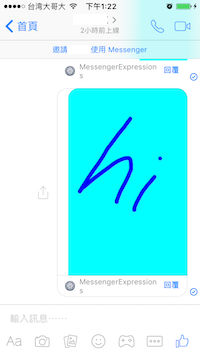
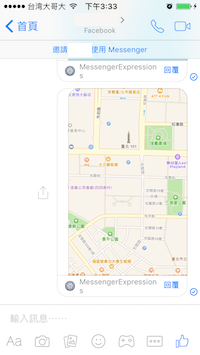
add Reply function

diff --git a/MessengerExpressions/ViewController.swift b/MessengerExpressions/ViewController.swift
@@ -7,97 +7,28 @@
 //
 
 import UIKit
+import MapKit
+
 import FBSDKMessengerShareKit
 
 class ViewController: UIViewController {
-    @IBOutlet weak var textLabel: UILabel!
-    @IBOutlet weak var mainImageView: UIImageView!
-    @IBOutlet weak var tempImageView: UIImageView!
-    
-    let bgColor = UIColor.cyan
+    @IBOutlet weak var mapView: MKMapView!
+    var region: MKCoordinateRegion?
 
     override func viewDidLoad() {
         super.viewDidLoad()
         // Do any additional setup after loading the view, typically from a nib.
-        self.view.backgroundColor = bgColor
+        
         initFB()
+        
+        if let region = region {
+            mapView.region = region
+        }
     }
 
     override func didReceiveMemoryWarning() {
         super.didReceiveMemoryWarning()
         // Dispose of any resources that can be recreated.
-    }
-
-    // MARK: - drawing
-    // Modified from https://www.raywenderlich.com/87899/make-simple-drawing-app-uikit-swift
-    var lastPoint = CGPoint.zero
-    var swiped = false
-    
-    override func touchesBegan(_ touches: Set<UITouch>, with event: UIEvent?) {
-        swiped = false
-        textLabel.text = nil
-        
-        if let touch = touches.first {
-            lastPoint = touch.location(in: self.tempImageView)
-        }
-    }
-    
-    func drawLineFrom(fromPoint: CGPoint, toPoint: CGPoint) {
-        UIGraphicsBeginImageContext(tempImageView.frame.size)
-        if let context = UIGraphicsGetCurrentContext() {
-            // 1
-            tempImageView.image?.draw(in: tempImageView.bounds)
-            
-            // 2
-            context.move(to: fromPoint)
-            context.addLine(to: toPoint)
-            
-            // 3
-            context.setLineCap(.round)
-            context.setLineWidth(10)
-            context.setStrokeColor(UIColor.blue.cgColor)
-            context.setBlendMode(.normal)
-            
-            // 4
-            context.strokePath()
-        }
-        
-        // 5
-        tempImageView.image = UIGraphicsGetImageFromCurrentImageContext()
-        UIGraphicsEndImageContext()
-        
-    }
-    
-    override func touchesMoved(_ touches: Set<UITouch>, with event: UIEvent?) {
-        // 6
-        swiped = true
-        if let touch = touches.first {
-            let currentPoint = touch.location(in: self.tempImageView)
-            drawLineFrom(fromPoint: lastPoint, toPoint: currentPoint)
-            
-            // 7
-            lastPoint = currentPoint
-        }
-    }
-    
-    override func touchesEnded(_ touches: Set<UITouch>, with event: UIEvent?) {
-        if !swiped {
-            // draw a single point
-            drawLineFrom(fromPoint: lastPoint, toPoint: lastPoint)
-        }
-        
-        // Merge tempImageView into mainImageView
-        UIGraphicsBeginImageContext(mainImageView.bounds.size)
-        if let context = UIGraphicsGetCurrentContext() {
-            context.setFillColor(bgColor.cgColor)
-            context.fill(tempImageView.bounds)
-        }
-        mainImageView.image?.draw(in: tempImageView.bounds, blendMode: .normal, alpha: 1.0)
-        tempImageView.image?.draw(in: tempImageView.bounds, blendMode: .normal, alpha: 1.0)
-        mainImageView.image = UIGraphicsGetImageFromCurrentImageContext()
-        UIGraphicsEndImageContext()
-        
-        tempImageView.image = nil
     }
     
     // MARK: - FaceBook
@@ -110,11 +41,21 @@ class ViewController: UIViewController {
     }
     
     func share() {
-        guard let image = mainImageView.image else { return }
-        let appDelegate = UIApplication.shared.delegate as? AppDelegate
-        let shareOptions = FBSDKMessengerShareOptions()
-        shareOptions.contextOverride = appDelegate?.contextFBMessenger
-        FBSDKMessengerSharer.share(image, with: shareOptions)
+        let options = MKMapSnapshotOptions()
+        options.region = self.mapView.region
+        options.scale = UIScreen.main.scale
+        options.size = self.mapView.frame.size
+        
+        let snapshotter = MKMapSnapshotter(options: options)
+        snapshotter.start { (snapshot, error) in
+            guard let snapshot = snapshot else { return }
+            
+            let appDelegate = UIApplication.shared.delegate as? AppDelegate
+            let shareOptions = FBSDKMessengerShareOptions()
+            shareOptions.metadata = options.region.toString()
+            shareOptions.contextOverride = appDelegate?.contextFBMessenger
+            FBSDKMessengerSharer.share(snapshot.image, with: shareOptions)
+        }
     }
 }
 

diff --git a/MessengerExpressions/MKCoordinateRegion+String.swift b/MessengerExpressions/MKCoordinateRegion+String.swift
@@ -1,0 +1,34 @@
+//
+//  MKCoordinateRegion+String.swift
+//  MessengerExpressions
+//
+//  Created by Wayne Yeh on 2017/2/20.
+//  Copyright © 2017年 Wayne Yeh. All rights reserved.
+//
+
+import MapKit
+
+extension MKCoordinateRegion {
+    func toString() -> String {
+        return "{\"center\":{\"latitude\":\(center.latitude), \"longitude\":\(center.longitude)}, \"span\":{\"latitudeDelta\":\(span.latitudeDelta),\"longitudeDelta\":\(span.longitudeDelta)}}"
+    }
+}
+
+extension String {
+    func toCoordinateRegion() -> MKCoordinateRegion? {
+        guard
+            let data = self.data(using: .utf8),
+            let json = try? JSONSerialization.jsonObject(with: data, options: .mutableContainers) as? [String:[String:Double]],
+            let latitude = json?["center"]?["latitude"],
+            let longitude = json?["center"]?["longitude"],
+            let latitudeDelta = json?["span"]?["latitudeDelta"],
+            let longitudeDelta = json?["span"]?["longitudeDelta"]
+            else { return nil }
+        
+        let center = CLLocationCoordinate2D(latitude: latitude, longitude: longitude)
+        
+        let span = MKCoordinateSpan(latitudeDelta: latitudeDelta, longitudeDelta: longitudeDelta)
+        
+        return MKCoordinateRegion(center: center, span: span)
+    }
+}

diff --git a/MessengerExpressions/ReplyViewController.swift b/MessengerExpressions/ReplyViewController.swift
@@ -1,0 +1,37 @@
+//
+//  ReplyViewController.swift
+//  MessengerExpressions
+//
+//  Created by Wayne Yeh on 2017/2/20.
+//  Copyright © 2017年 Wayne Yeh. All rights reserved.
+//
+
+import UIKit
+
+import FBSDKMessengerShareKit
+
+class ReplyViewController: ViewController {
+
+    override func initFB() {
+        let replyItem = UIBarButtonItem(barButtonSystemItem: .reply, target: self, action: #selector(share))
+        navigationItem.setRightBarButton(replyItem, animated: true)
+        
+        let width = (self.navigationController?.navigationBar.frame.size.height ?? 44) - 8
+        let button = FBSDKMessengerShareButton.circularButton(with: .blue, width: width)
+        button?.addTarget(self, action: #selector(back), for: .touchUpInside)
+        let backItem = UIBarButtonItem(customView: button!)
+        navigationItem.setLeftBarButton(backItem, animated: true)
+    }
+    
+    override func share() {
+        _ = self.navigationController?.popViewController(animated: false)
+        
+        super.share()
+    }
+    
+    func back() {
+        _ = self.navigationController?.popViewController(animated: false)
+        
+        FBSDKMessengerSharer.openMessenger()
+    }
+}

diff --git a/MessengerExpressions/AppDelegate.swift b/MessengerExpressions/AppDelegate.swift
@@ -7,6 +7,8 @@
 //
 
 import UIKit
+import MapKit
+
 import FBSDKMessengerShareKit
 
 @UIApplicationMain
@@ -54,6 +56,17 @@ class AppDelegate: UIResponder, UIApplicationDelegate, FBSDKMessengerURLHandlerD
     
     func messengerURLHandler(_ messengerURLHandler: FBSDKMessengerURLHandler!, didHandleReplyWith context: FBSDKMessengerURLHandlerReplyContext!) {
         contextFBMessenger = context
+        
+        guard let navigationController =  window?.rootViewController as? UINavigationController else { return }
+        
+        let storyboard = UIStoryboard(name: "Main", bundle: nil)
+        let controller = storyboard.instantiateViewController(withIdentifier: "ViewController")
+        object_setClass(controller, ReplyViewController.self)
+        
+        guard let replyController =  controller as? ReplyViewController else { return }
+        replyController.region = context.metadata.toCoordinateRegion()
+        
+        navigationController.pushViewController(replyController, animated: false)
     }
     
     func messengerURLHandler(_ messengerURLHandler: FBSDKMessengerURLHandler!, didHandleOpenFromComposerWith context: FBSDKMessengerURLHandlerOpenFromComposerContext!) {

diff --git a/README.md b/README.md
@@ -2,4 +2,8 @@
 
 Sample for Facebook Messenger - Expressions   
 
-![app](doc/app.png) <=> ![messenger](doc/messenger.png)
+share to Messenger   
+![app](doc/app.png) => ![share](doc/share.png)   
+
+reply from Messenger   
+![messenger](doc/messenger.png) <=> ![reply](doc/reply.png)   
